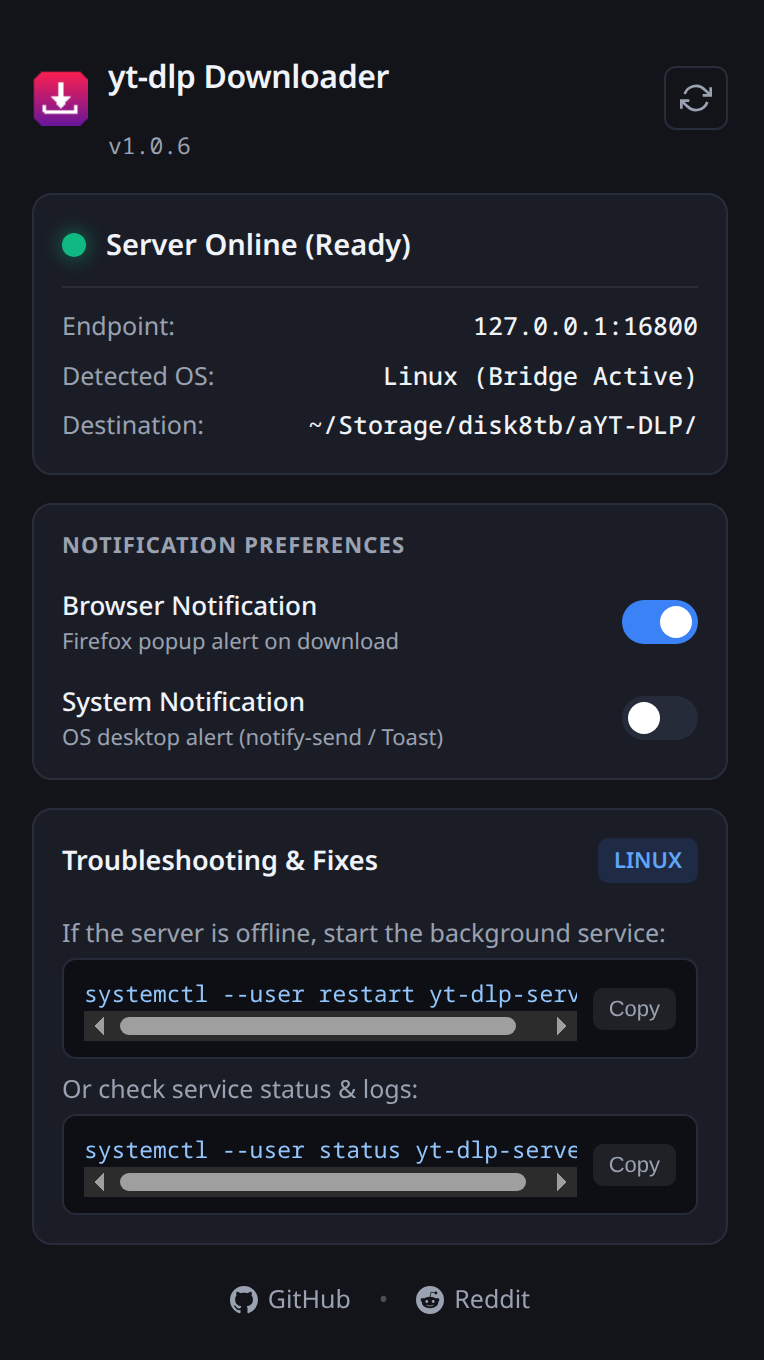
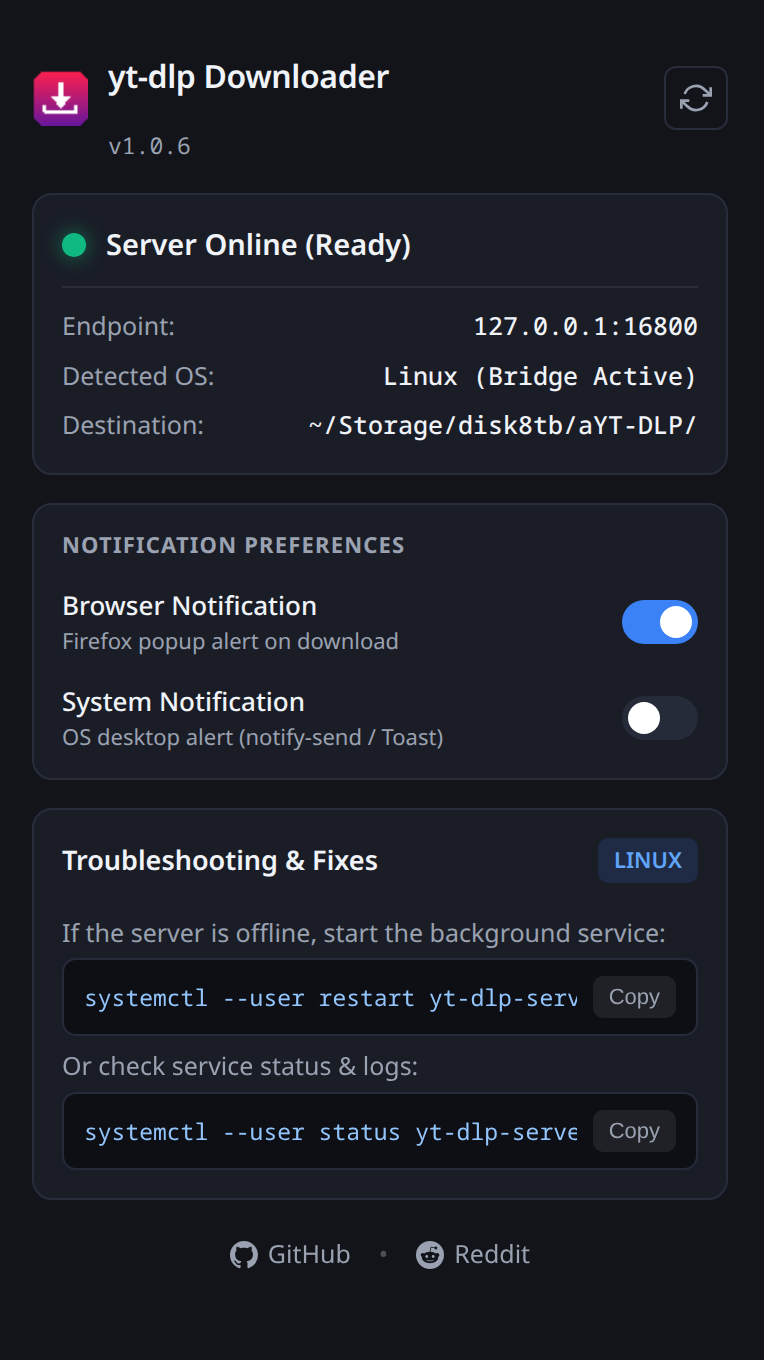
fix(popup): hide horizontal scrollbars on code snippets and update screenshot

Changed region(s): [[0.0903, 0.7103, 0.7526, 0.9882], [0.8128, 0.7103, 0.873, 0.7721], [0.7827, 0.8338, 0.873, 0.8647]]

diff --git a/extension/popup/popup.css b/extension/popup/popup.css
@@ -319,6 +319,12 @@ input:checked + .slider:before {
   color: #93c5fd;
   overflow-x: auto;
   white-space: nowrap;
+  scrollbar-width: none; /* Firefox */
+  -ms-overflow-style: none; /* IE / Edge */
+}
+
+.code-box code::-webkit-scrollbar {
+  display: none; /* Chrome / Safari / Edge */
 }
 
 .btn-copy {
